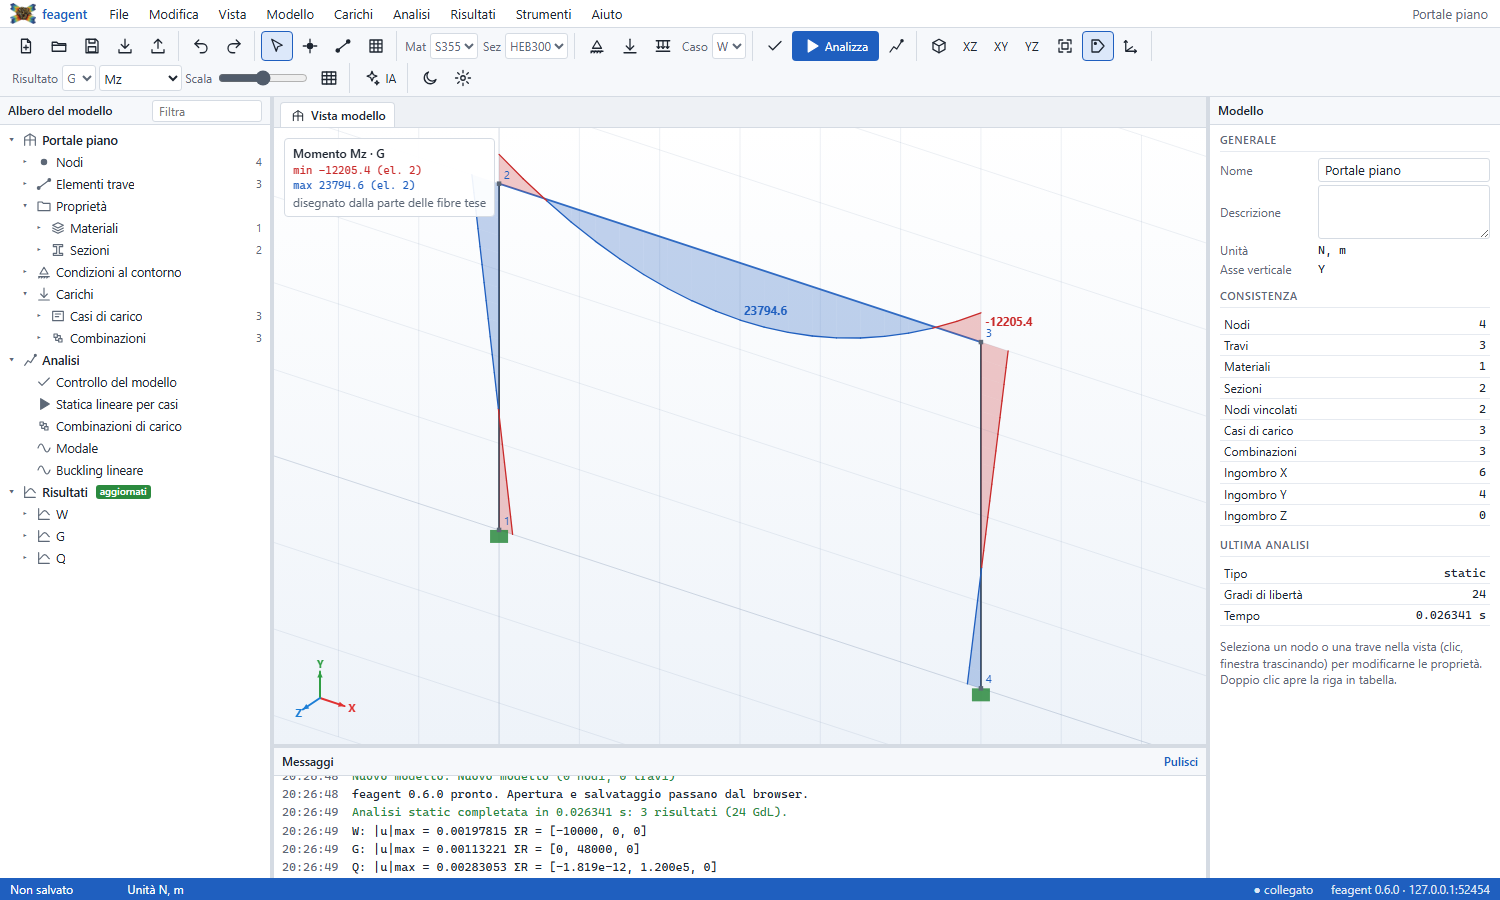
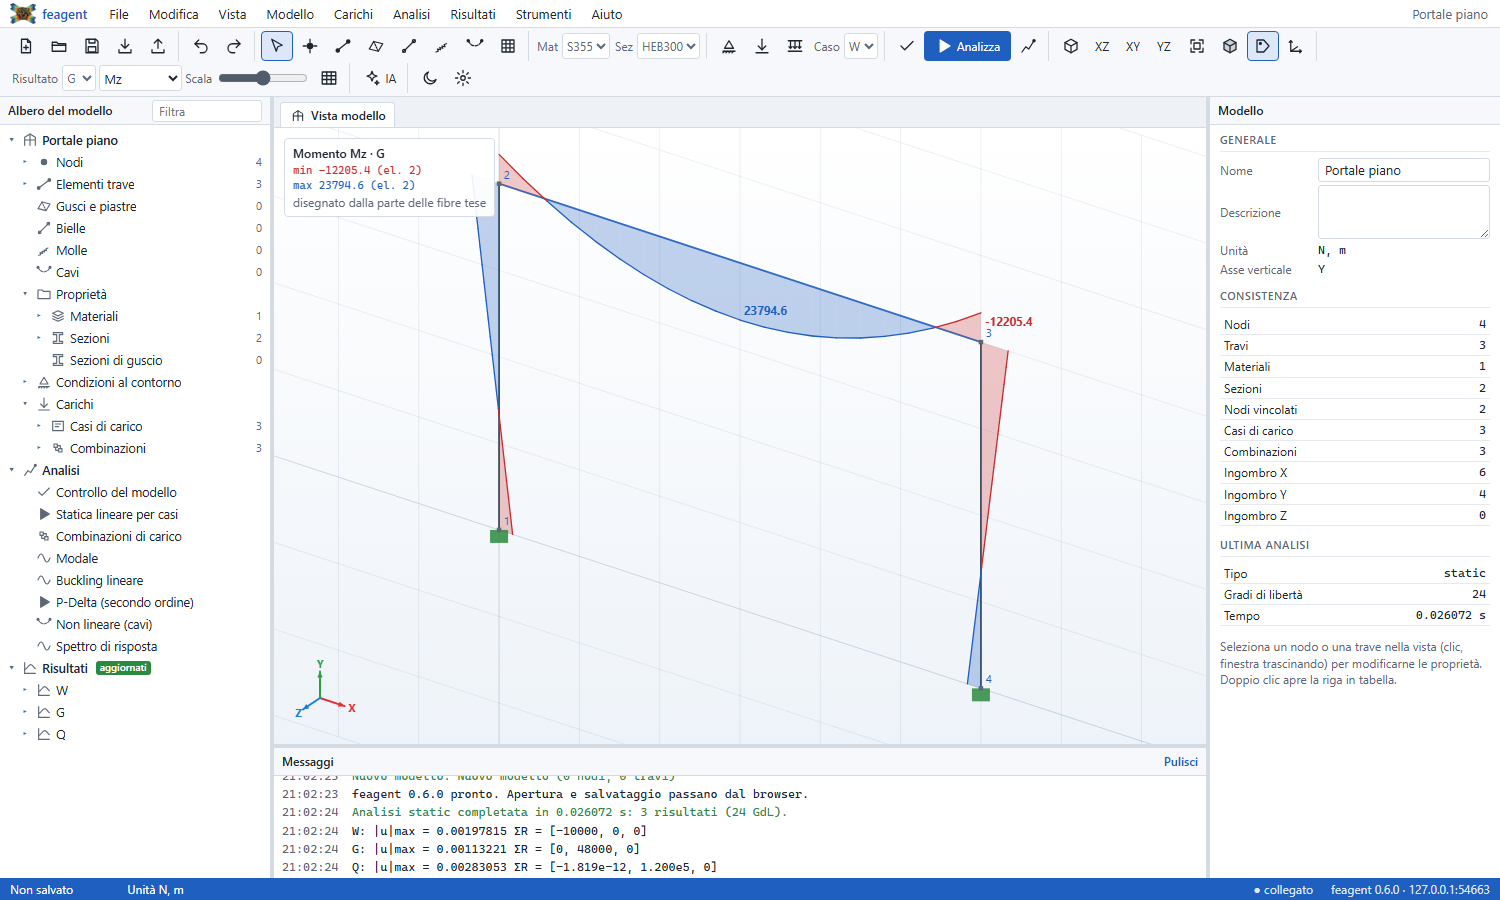
docs: elementi speciali, vista estrusa e relazione nella GUI

diff --git a/it-42-desktop-gui.md b/it-42-desktop-gui.md
@@ -174,6 +174,76 @@ modo), la grandezza e la scala.
 Se il modello cambia dopo l'analisi, l'albero e la vista segnalano che i
 risultati vanno aggiornati (F5).
 
+## Gusci, piastre, bielle, molle e cavi
+
+Oltre alle travi il modello accetta tutti gli elementi del solutore, ciascuno
+con il proprio foglio (vedi [Excel I/O](it-11-excel-io.html)) e il proprio
+gruppo nell'albero:
+
+| Elemento | Foglio | Come si crea |
+|---|---|---|
+| Guscio o piastra (Q4, triangolo) | Shell, ShellSection | strumento **P** (3 o 4 vertici in ordine), **Modello > Genera piastra a maglia**, tabella |
+| Biella | Truss | strumento Bielle (area e comportamento chiesti all'inizio), tabella |
+| Molla assiale | Spring | strumento Molle, tabella |
+| Cavo (asta o catenaria) | Cable | strumento Cavi, tabella |
+| Vincolo elastico a terra | ElasticSupport | nodi selezionati, **Modello > Vincoli elastici** |
+| Collegamento rigido, equalDOF, diaframma | Constraint | due o più nodi selezionati, **Modello > Vincolo cinematico** (il primo è il master) |
+| Pressione, carico di superficie, termico sui gusci | ShellPressure, ShellLoad, ShellThermal | gusci selezionati, **Carichi > Carico sui gusci** |
+| Peso proprio automatico | SelfWeight | **Carichi > Peso proprio** |
+
+![Telaio in acciaio con solaio a gusci, biella, molla e vincoli](images/gui_mixed.png)
+
+Il **peso proprio** non è più un elenco di carichi generati: è una
+definizione che il solutore ricalcola a ogni analisi da peso specifico (γ, o
+ρ·g) per area di travi e bielle e per spessore dei gusci, quindi resta giusto
+anche se cambiano sezioni e spessori. Con i **cavi** l'analisi statica diventa
+automaticamente non lineare (Newton-Raphson) e il messaggio lo segnala.
+
+## Vista estrusa
+
+**Vista > Vista estrusa** (tasto **E**, o il cubo della barra) disegna le
+travi con la sezione reale e i gusci con il loro spessore, colorati per
+materiale (acciaio, calcestruzzo, legno). La forma si prende dalle colonne
+`Shape`, `h`, `b`, `tw`, `tf`, `t`, `d` del foglio Section, che le sezioni
+parametriche compilano da sole; in mancanza si usa il rettangolo equivalente
+ad `A`, `Iy`, `Iz`.
+
+![Vista estrusa: doppio T dei pilastri e spessore del solaio](images/gui_extruded.png)
+
+## Analisi e risultati degli elementi speciali
+
+| Analisi | Note |
+|---|---|
+| Statica per casi, combinazione, combinazioni | lineare; non lineare in automatico se ci sono cavi |
+| P-Delta | secondo ordine con la rigidezza geometrica aggiornata |
+| Non lineare | Newton-Raphson, con passi di carico; cavi ed elementi solo trazione o solo compressione |
+| Modale, buckling | come prima, con gusci, bielle e cavi (precarico dei cavi incluso) |
+| Spettro di risposta | spettro EC8 / NTC 2018 di tipo 1 (a<sub>g</sub>, suolo, q, ξ), CQC o SRSS, un risultato per direzione (inviluppi senza segno) e tagli alla base |
+
+Ai risultati si aggiungono le **mappe a colori dei gusci** (Mx, My, Mxy, Nx,
+Ny, Nxy, Qx, Qy al centro dell'elemento, assi locali), lo **sforzo assiale di
+bielle, molle e cavi** (blu trazione, rosso compressione, spessore
+proporzionale), le reazioni dei vincoli elastici e le relative tabelle.
+
+![Piastra appoggiata sul contorno sotto pressione: momento My](images/gui_plate.png)
+
+## Relazione di calcolo
+
+**File > Esporta > Relazione di calcolo Word** esegue le analisi scelte (casi,
+combinazioni, modale) e scrive una relazione nello stile aziendale: Calibri
+11, titoli neri, tabelle native con intestazione su fondo azzurro chiaro,
+figure centrate con didascalia «Figura N — …», nessun nome di software nel
+testo. Le figure sono quelle della vista, quindi con gusci, cavi, vista estrusa
+per il modello e momenti dalla parte delle fibre tese.
+
+Contenuto: premessa, normativa, unità e convenzioni, materiali, sezioni di
+travi e gusci, modello con figura e tabelle di input, carichi per caso con
+figure e combinazioni, risultati per caso e combinazione (deformata, diagrammi,
+mappe dei gusci, sforzi assiali, reazioni, estremi per trave) con il
+**controllo dell'equilibrio globale** fra carichi applicati e reazioni, analisi
+modale. Gli stessi dati, senza figure, si ottengono dall'IA con
+`live/export` in formato `report`.
+
 ## Pilotare l'interfaccia con un'IA
 
 Il modello di ogni sessione vive sul server: la finestra, gli assistenti IA
@@ -270,7 +340,9 @@ docker run -d -p 127.0.0.1:8777:8777 -e FEAGENT_GUI_KEY=una-chiave-lunga feagent
 | Ctrl+Z, Ctrl+Y | annulla, ripeti |
 | F5 | statica per casi |
 | F6 | combinazioni |
-| S, N, B | seleziona, disegna nodi, disegna travi |
+| S, N, B, P | seleziona, disegna nodi, travi, gusci |
+| E | vista estrusa |
+| Invio | chiude il guscio in disegno come triangolo |
 | Canc | elimina la selezione |
 | Esc | chiude la catena di travi, torna alla selezione, deseleziona |
 

diff --git a/en-42-desktop-gui.md b/en-42-desktop-gui.md
@@ -168,6 +168,74 @@ mode), the quantity and the scale.
 When the model changes after an analysis, the tree and the view flag the
 results as out of date (F5 to rerun).
 
+## Shells, plates, trusses, springs and cables
+
+Besides beams the model accepts every element of the solver, each with its own
+sheet (see [Excel I/O](en-11-excel-io.html)) and tree group:
+
+| Element | Sheet | How to create it |
+|---|---|---|
+| Shell or plate (Q4, triangle) | Shell, ShellSection | tool **P** (3 or 4 vertices in order), **Model > Plate mesh generator**, table |
+| Truss bar | Truss | Truss tool (area and behaviour asked first), table |
+| Axial spring | Spring | Spring tool, table |
+| Cable (bar or catenary) | Cable | Cable tool, table |
+| Elastic support to ground | ElasticSupport | selected nodes, **Model > Elastic supports** |
+| Rigid link, equalDOF, diaphragm | Constraint | two or more selected nodes, **Model > Kinematic constraint** (the first is the master) |
+| Pressure, surface and thermal loads on shells | ShellPressure, ShellLoad, ShellThermal | selected shells, **Loads > Shell load** |
+| Automatic self weight | SelfWeight | **Loads > Self weight** |
+
+![Steel frame with shell slab, truss bar, spring and constraints](images/gui_mixed.png)
+
+**Self weight** is no longer a list of generated loads: it is a definition the
+solver recomputes at every analysis from the unit weight (γ, or ρ·g) times the
+area of beams and trusses and the thickness of shells, so it stays right when
+sections change. With **cables** the static analysis becomes nonlinear
+(Newton-Raphson) automatically and the message log says so.
+
+## Extruded view
+
+**View > Extruded view** (key **E**, or the cube in the toolbar) draws beams
+with their real section and shells with their thickness, coloured by material
+(steel, concrete, timber). The shape comes from the `Shape`, `h`, `b`, `tw`,
+`tf`, `t`, `d` columns of the Section sheet, filled by the parametric section
+wizard; otherwise the rectangle equivalent to `A`, `Iy`, `Iz` is used.
+
+![Extruded view: I-section columns and slab thickness](images/gui_extruded.png)
+
+## Analyses and results of the special elements
+
+| Analysis | Notes |
+|---|---|
+| Static per case, combination, combinations | linear; nonlinear automatically when cables are present |
+| P-Delta | second order with the updated geometric stiffness |
+| Nonlinear | Newton-Raphson with load steps; cables and tension-only or compression-only members |
+| Modal, buckling | as before, with shells, trusses and cables (cable pretension included) |
+| Response spectrum | EC8 / NTC 2018 type 1 spectrum (a<sub>g</sub>, soil, q, ξ), CQC or SRSS, one result per direction (unsigned envelopes) and base shear |
+
+Results add **colour maps on shells** (Mx, My, Mxy, Nx, Ny, Nxy, Qx, Qy at the
+element centre, local axes), the **axial force of trusses, springs and
+cables** (blue tension, red compression, width proportional), elastic support
+reactions and the related tables.
+
+![Plate supported on its edges under pressure: moment My](images/gui_plate.png)
+
+## Calculation report
+
+**File > Export > Word calculation report** runs the selected analyses (load
+cases, combinations, modal) and writes a report in the house style: Calibri
+11, black headings, native tables with a light blue header, centred figures
+captioned "Figura N — …", no software names in the text. Figures are taken
+from the view, so they include shells, cables, the extruded model view and
+moments on the tension side.
+
+Contents: introduction, codes, units and conventions, materials, beam and
+shell sections, model with figure and input tables, loads per case with
+figures and combinations, results per case and combination (deformed shape,
+diagrams, shell maps, axial forces, reactions, extremes per beam) with the
+**global equilibrium check** between applied loads and reactions, modal
+analysis. The same data without figures are available to an AI through
+`live/export` with format `report`.
+
 ## Driving the interface with an AI
 
 Each session's model lives on the server: the window, AI assistants and other
@@ -263,7 +331,9 @@ docker run -d -p 127.0.0.1:8777:8777 -e FEAGENT_GUI_KEY=a-long-key feagent-gui
 | Ctrl+Z, Ctrl+Y | undo, redo |
 | F5 | static per load case |
 | F6 | combinations |
-| S, N, B | select, draw nodes, draw beams |
+| S, N, B, P | select, draw nodes, beams, shells |
+| E | extruded view |
+| Enter | close the shell being drawn as a triangle |
 | Del | delete the selection |
 | Esc | end the beam chain, back to selection, clear selection |
 

diff --git a/it-11-excel-io.md b/it-11-excel-io.md
@@ -192,8 +192,8 @@ normalizzato prima di usarlo (`feagent convert tabelle_sap.xlsx modello.xlsx --A
 | Foglio | Colonne (tra parentesi quelle opzionali) |
 |--------|-------------------|
 | Node | Node, X, Y, Z |
-| Material | Material, E, [nu], [alpha], [G], [rho] |
-| Section | Section, A, Iy, Iz, J, [Asy], [Asz] |
+| Material | Material, E, [nu], [alpha], [G], [rho], [gamma] |
+| Section | Section, A, Iy, Iz, J, [Asy], [Asz], [Shape, h, b, tw, tf, t, d] (forma, solo per la vista estrusa) |
 | Element | Element, NodeI, NodeJ, Material, Section, [shear], [RefX, RefY, RefZ], [ReleasesI], [ReleasesJ] |
 | Support | Node, Dx, Dy, Dz, Rx, Ry, Rz (1 = vincolato, assi globali) |
 | NodalLoad | Node, Fx, Fy, Fz, Mx, My, Mz, [Case] |
@@ -203,6 +203,17 @@ normalizzato prima di usarlo (`feagent convert tabelle_sap.xlsx modello.xlsx --A
 | Settlement | Node, Dof, Value (sempre attivo, senza caso di carico) |
 | Prestress | Element, P, [e_i], [e_j], [plane], [sag], [Case] |
 | Combination | Name, Case, Coef (opzionale, vedi sopra) |
+| ShellSection | Section, t, [kappa] - sezione di guscio o piastra |
+| Shell | Shell, N1, N2, N3, [N4], Material, Section, [Formulation] - 4 nodi = Q4, 3 nodi = triangolo (`cst` o `thin`) |
+| Truss | Truss, NodeI, NodeJ, Material, A oppure Section, [behavior] - biella (`both`, `tension`, `compression`) |
+| Spring | Spring, NodeI, NodeJ, k, [behavior] - molla assiale (id condivisi con Truss) |
+| Cable | Cable, NodeI, NodeJ, Type (`bar` o `catenary`), E, A, [w], [L0], [N0], [ernst], [tension_only] |
+| ElasticSupport | Node, [kx], [ky], [kz], [krx], [kry], [krz] - molle a terra, assi globali |
+| Constraint | Type (`rigid_link`, `equal_dof`, `diaphragm`), Master, Slave (anche `2,3,4`), [Dofs], [Plane] |
+| ShellPressure | Shell, p, [Case] - pressione lungo la normale (ordine dei nodi, mano destra) |
+| ShellLoad | Shell, qx, qy, qz, [frame], [projected], [Case] |
+| ShellThermal | Shell, dT, [dT_grad], [Case] |
+| SelfWeight | Case, [g], [DirX], [DirY], [DirZ] - peso proprio automatico di travi, bielle e gusci |
 | README | testo libero, ignorato |
 
 Le unita' sono SI (N, m, Pa, kg, K) o qualsiasi sistema coerente. I carichi

diff --git a/en-11-excel-io.md b/en-11-excel-io.md
@@ -190,8 +190,8 @@ use (`feagent convert sap_tables.xlsx model.xlsx --A ... --Iy ...`).
 | Sheet | Columns (optional ones in brackets) |
 |-------|-------------|
 | Node | Node, X, Y, Z |
-| Material | Material, E, [nu], [alpha], [G], [rho] |
-| Section | Section, A, Iy, Iz, J, [Asy], [Asz] |
+| Material | Material, E, [nu], [alpha], [G], [rho], [gamma] |
+| Section | Section, A, Iy, Iz, J, [Asy], [Asz], [Shape, h, b, tw, tf, t, d] (shape, extruded view only) |
 | Element | Element, NodeI, NodeJ, Material, Section, [shear], [RefX, RefY, RefZ], [ReleasesI], [ReleasesJ] |
 | Support | Node, Dx, Dy, Dz, Rx, Ry, Rz (1 = restrained, global axes) |
 | NodalLoad | Node, Fx, Fy, Fz, Mx, My, Mz, [Case] |
@@ -201,6 +201,17 @@ use (`feagent convert sap_tables.xlsx model.xlsx --A ... --Iy ...`).
 | Settlement | Node, Dof, Value (always active, no load case) |
 | Prestress | Element, P, [e_i], [e_j], [plane], [sag], [Case] |
 | Combination | Name, Case, Coef (optional, see above) |
+| ShellSection | Section, t, [kappa] - shell or plate section |
+| Shell | Shell, N1, N2, N3, [N4], Material, Section, [Formulation] - 4 nodes = Q4, 3 nodes = triangle (`cst` or `thin`) |
+| Truss | Truss, NodeI, NodeJ, Material, A or Section, [behavior] - truss bar (`both`, `tension`, `compression`) |
+| Spring | Spring, NodeI, NodeJ, k, [behavior] - axial spring (ids shared with Truss) |
+| Cable | Cable, NodeI, NodeJ, Type (`bar` or `catenary`), E, A, [w], [L0], [N0], [ernst], [tension_only] |
+| ElasticSupport | Node, [kx], [ky], [kz], [krx], [kry], [krz] - springs to ground, global axes |
+| Constraint | Type (`rigid_link`, `equal_dof`, `diaphragm`), Master, Slave (also `2,3,4`), [Dofs], [Plane] |
+| ShellPressure | Shell, p, [Case] - pressure along the normal (node order, right-hand rule) |
+| ShellLoad | Shell, qx, qy, qz, [frame], [projected], [Case] |
+| ShellThermal | Shell, dT, [dT_grad], [Case] |
+| SelfWeight | Case, [g], [DirX], [DirY], [DirZ] - automatic self weight of beams, trusses and shells |
 | README | free text, ignored |
 
 Units are SI (N, m, Pa, kg, K) or any consistent system. Gravity loads on
